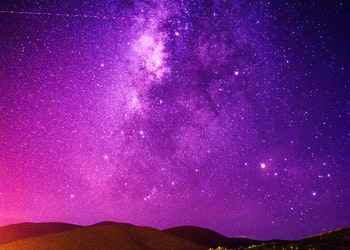
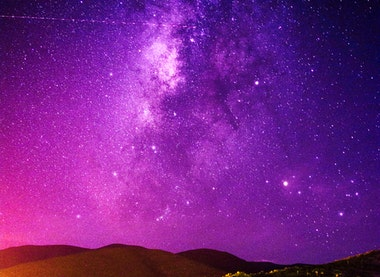
Add Minified CSS and replace images

diff --git a/css/main.min.css b/css/main.min.css
@@ -1,0 +1,2 @@
+*{-webkit-box-sizing:border-box;box-sizing:border-box;margin:0;padding:0}html{font-family:"Nunito Sans",sans-serif;color:#4a4a4a;font-size:16px}.main-container{margin:0 auto;max-width:1300px}*{-webkit-box-sizing:border-box;box-sizing:border-box;margin:0;padding:0}html{font-family:"Nunito Sans",sans-serif;color:#4a4a4a;font-size:16px}.main-container{margin:0 auto;max-width:1300px}.courses{background-color:#fff;padding:20px;min-height:100vh}@media screen and (max-width: 320px){.courses{padding:5px}}.courses__header{padding:20px 10px}.courses__title{font-family:"Merriweather",serif;color:#00072a;font-size:30px}.card-container{display:-webkit-box;display:-ms-flexbox;display:flex;-ms-flex-wrap:wrap;flex-wrap:wrap;-webkit-box-pack:justify;-ms-flex-pack:justify;justify-content:space-between}.card{display:-webkit-box;display:-ms-flexbox;display:flex;-webkit-box-orient:vertical;-webkit-box-direction:normal;-ms-flex-direction:column;flex-direction:column;-webkit-box-flex:1;-ms-flex:1 1 0px;flex:1 1 0;-webkit-box-pack:justify;-ms-flex-pack:justify;justify-content:space-between;margin:10px;min-width:390px;cursor:pointer;-webkit-transition:all 0.3s ease;transition:all 0.3s ease;background:#fff;border:10px solid #efefef;-webkit-box-shadow:0 6px 10px -5px rgba(0,0,0,0.2);box-shadow:0 6px 10px -5px rgba(0,0,0,0.2)}@media screen and (max-width: 768px){.card{min-width:300px}}@media screen and (max-width: 320px){.card{min-width:auto}}.card:hover{-webkit-transform:translateY(-5px);transform:translateY(-5px);-webkit-box-shadow:0 20px 20px -15px rgba(0,0,0,0.3);box-shadow:0 20px 20px -15px rgba(0,0,0,0.3)}.card__image{width:100%;height:100%}.card__price{background-color:#f68b1f;padding:10px 20px;color:#fff;font-size:20px;font-weight:600;display:inline-block;position:relative;top:-30px}.card__content{padding:10px}.card__content--center{text-align:center}.card__title{font-family:"Merriweather",serif;font-size:20px;color:#00072a;line-height:26px;padding:10px 15px;margin-top:-20px}.card__text{line-height:22px;padding:5px 15px}.card__footer{padding:15px;line-height:18px;border-top:1px solid #ddd}.card__footer--center{text-align:center;display:-webkit-box;display:-ms-flexbox;display:flex;-webkit-box-align:center;-ms-flex-align:center;align-items:center;-webkit-box-orient:vertical;-webkit-box-direction:normal;-ms-flex-direction:column;flex-direction:column}
+/*# sourceMappingURL=main.min.css.map */

diff --git a/index.html b/index.html
@@ -6,7 +6,7 @@
   <meta http-equiv="X-UA-Compatible" content="IE=edge">
   <meta name="viewport" content="width=device-width, initial-scale=1.0">
   <title>Sass Product Card</title>
-  <link rel="stylesheet" href="./css/main.css">
+  <link rel="stylesheet" href="./css/main.min.css">
   <link rel="preconnect" href="https://fonts.googleapis.com">
   <link rel="preconnect" href="https://fonts.gstatic.com" crossorigin>
   <link href="https://fonts.googleapis.com/css2?family=Merriweather&family=Nunito+Sans&display=swap" rel="stylesheet">
